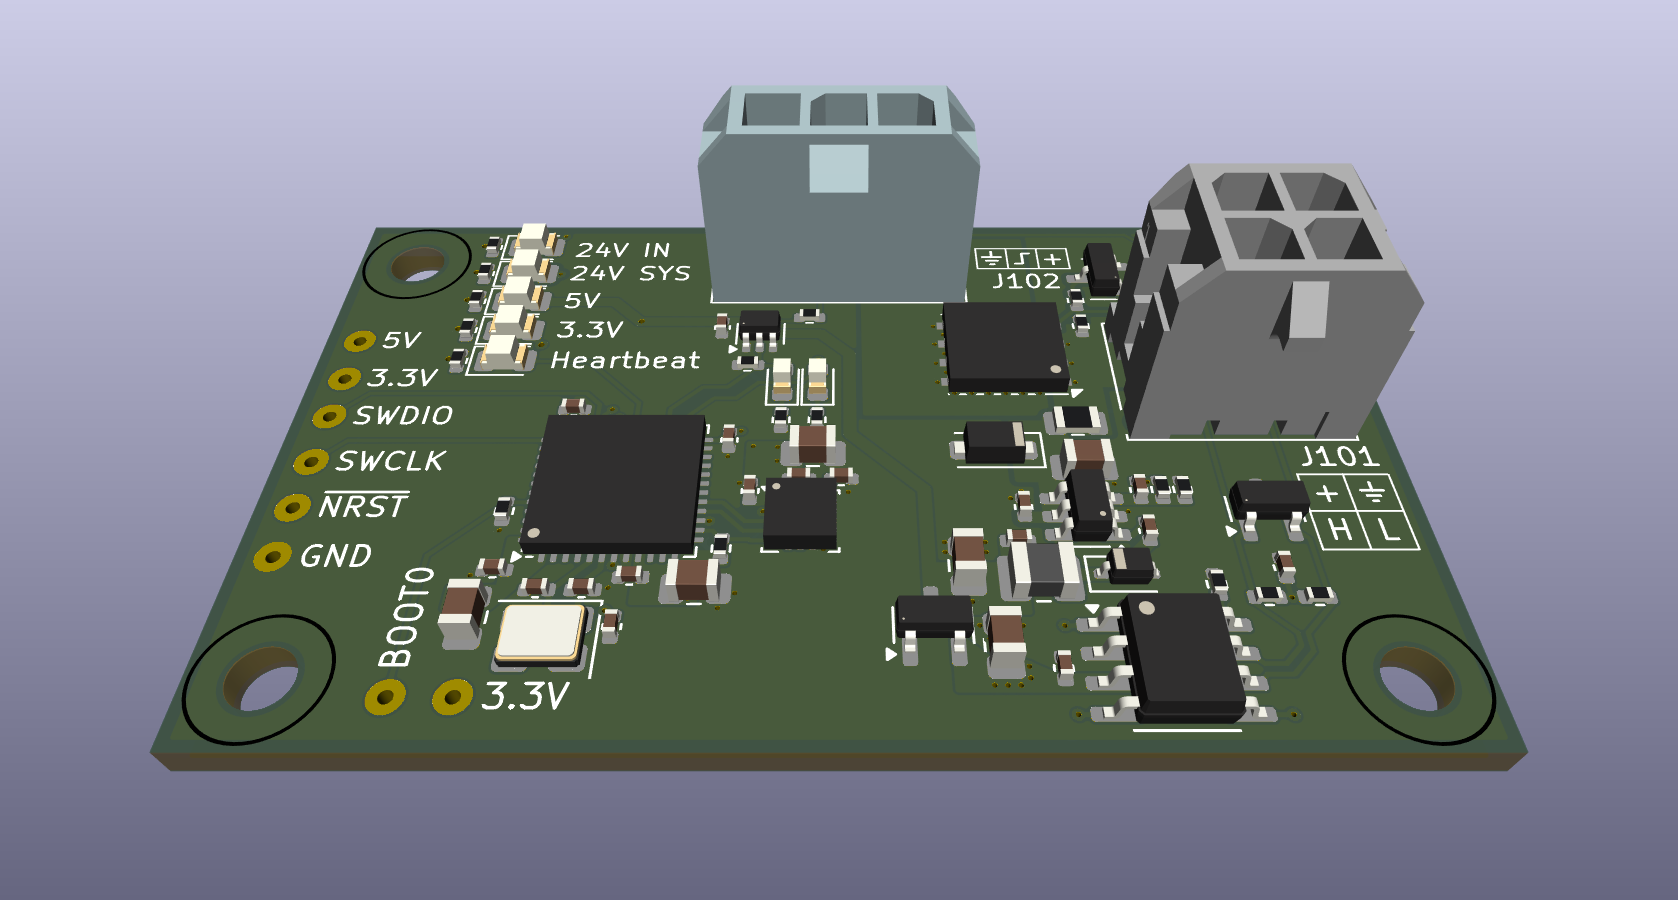
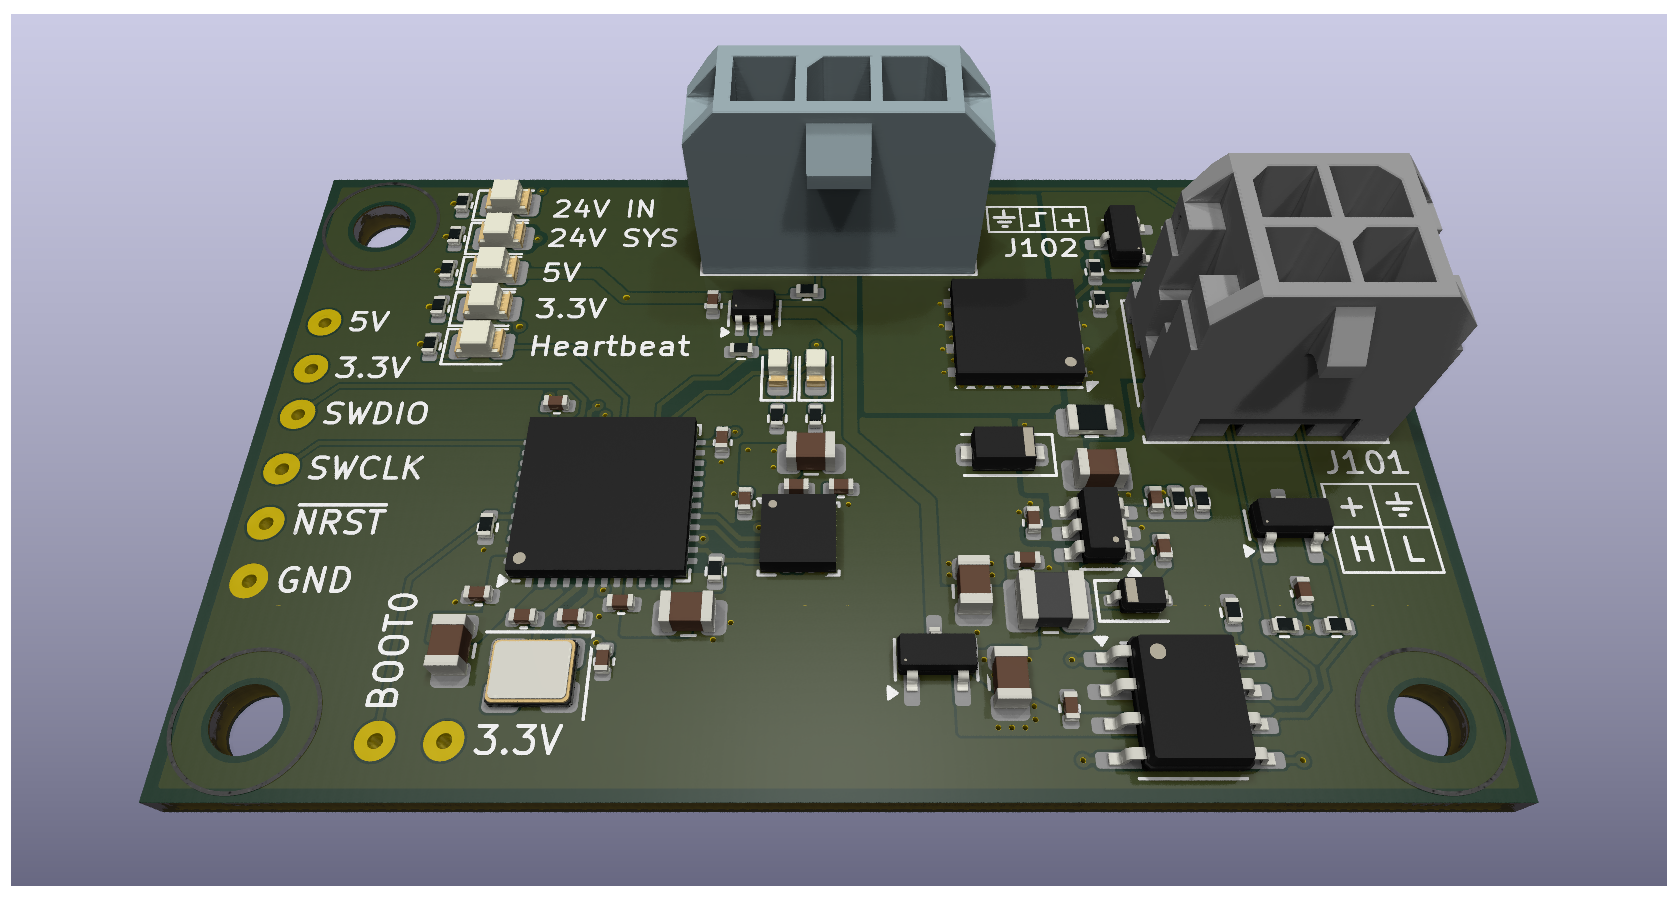
Update documentation: improve language hints and add CC BY-NC-SA 4.0 license
- Updated language selection format to match ROCK 5 CANbus HAT style
- Added comprehensive CC BY-NC-SA 4.0 license section to both README files
- Updated project image with new raytraced version
- Improved documentation consistency across projects

diff --git a/README.de.md b/README.de.md
@@ -1,6 +1,6 @@
 # 🔥 Laser CANbus Toolhead PCB
 
-*🇬🇧 English version: [README.md](README.md)*
+> 🌍 **Sprachen:** [English](README.md) | [Deutsch](README.de.md)
 
 Ein kompaktes, robustes Toolhead-Board für Klipper-basierte Lasergravierer und -schneider (CoreXY). Dieses Board integriert Stromversorgung, Lasertreiber-Logik, CAN-Bus Kommunikation und Input Shaping (ICM-20602) auf kleinstem Raum.
 
@@ -241,3 +241,24 @@ cycle_time: 1.0
 - [CAN-Bus Setup Guide](https://www.klipper3d.org/CANBUS.html)
 - [Input Shaping](https://www.klipper3d.org/Resonance_Compensation.html)
 - [Katapult Firmware Flasher](https://github.com/Arksine/katapult)
+
+## Lizenz
+
+Dieses Projekt steht unter der **Creative Commons Namensnennung-Nicht kommerziell-Share Alike 4.0 International Lizenz** (CC BY-NC-SA 4.0).
+
+[![License: CC BY-NC-SA 4.0](https://img.shields.io/badge/License-CC%20BY--NC--SA%204.0-lightgrey.svg)](https://creativecommons.org/licenses/by-nc-sa/4.0/deed.de)
+
+Dies bedeutet, Sie dürfen:
+- **Teilen** — das Material in jedwedem Format oder Medium vervielfältigen und weiterverbreiten
+- **Bearbeiten** — das Material remixen, verändern und darauf aufbauen
+
+Unter folgenden Bedingungen:
+- **Namensnennung** — Sie müssen angemessene Urheber- und Rechteangaben machen, einen Link zur Lizenz beifügen und angeben, ob Änderungen vorgenommen wurden
+- **Nicht kommerziell** — Sie dürfen das Material nicht für kommerzielle Zwecke nutzen
+- **Weitergabe unter gleichen Bedingungen** — Wenn Sie das Material remixen, verändern oder anderweitig direkt darauf aufbauen, dürfen Sie Ihre Beiträge nur unter derselben Lizenz wie das Original verbreiten
+
+Den vollständigen Lizenztext finden Sie unter: https://creativecommons.org/licenses/by-nc-sa/4.0/deed.de
+
+---
+
+> **Hinweis:** Dies ist die Originaldokumentation in deutscher Sprache. Eine englische Übersetzung finden Sie in [README.md](README.md).

diff --git a/README.md b/README.md
@@ -1,6 +1,6 @@
 # 🔥 Laser CANbus Toolhead PCB
 
-*🇩🇪 Deutsche Version: [README.de.md](README.de.md)*
+> 🌍 **Languages:** [English](README.md) | [Deutsch](README.de.md)
 
 A compact, robust toolhead board for Klipper-based laser engravers and cutters (CoreXY). This board integrates power supply, laser driver logic, CAN-Bus communication, and input shaping (ICM-20602) in the smallest possible space.
 
@@ -235,3 +235,24 @@ cycle_time: 1.0
 - [CAN-Bus Setup Guide](https://www.klipper3d.org/CANBUS.html)
 - [Input Shaping](https://www.klipper3d.org/Resonance_Compensation.html)
 - [Katapult Firmware Flasher](https://github.com/Arksine/katapult)
+
+## License
+
+This project is licensed under the **Creative Commons Attribution-NonCommercial-ShareAlike 4.0 International License** (CC BY-NC-SA 4.0).
+
+[![License: CC BY-NC-SA 4.0](https://img.shields.io/badge/License-CC%20BY--NC--SA%204.0-lightgrey.svg)](https://creativecommons.org/licenses/by-nc-sa/4.0/)
+
+This means you are free to:
+- **Share** — copy and redistribute the material in any medium or format
+- **Adapt** — remix, transform, and build upon the material
+
+Under the following terms:
+- **Attribution** — You must give appropriate credit, provide a link to the license, and indicate if changes were made
+- **NonCommercial** — You may not use the material for commercial purposes
+- **ShareAlike** — If you remix, transform, or build upon the material, you must distribute your contributions under the same license
+
+For the full license text, visit: https://creativecommons.org/licenses/by-nc-sa/4.0/
+
+---
+
+> **Note:** The original documentation is in German ([README.de.md](README.de.md)). This English version is a translation for international users.
